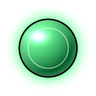
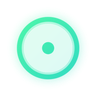
Flat neon driving marker; AI cars slow for people ahead and may hit one in their way while moving
Claude-Session: https://claude.ai/code/session_014q8XGFVYWqgS9iHLpB7QPZ

diff --git a/godot-spike/tools/content/t64_vehicles.py b/godot-spike/tools/content/t64_vehicles.py
@@ -379,8 +379,9 @@ if __name__ == '__main__':
 
 
 def drive_mark(n=96):
-    """The "driving" marker on a car's roof: a glossy emerald orb with a bright core, a pale rim, a soft glow and a drop shadow.  n px square."""
-    from PIL import Image, ImageFilter
+    """The "driving" marker on a car's roof: a flat, glassy neon ring (a mint-to-teal gradient) with a small solid core and a faint glow; no lighting or highlights, so it reads as a
+    marker laid over the car and not as an object on it.  n px square."""
+    from PIL import Image
     SSX = 4
     N = n * SSX
     yy, xx = np.mgrid[0:N, 0:N].astype(np.float32)
@@ -388,45 +389,27 @@ def drive_mark(n=96):
     R = N * 0.30
     d = np.sqrt((xx - cx) ** 2 + (yy - cy) ** 2)
     out = np.zeros((N, N, 4), np.float32)
-    # shadow on the roof: offset down, blurred
-    sh = Image.new('L', (N, N), 0)
-    sd = np.asarray(sh).astype(np.float32)
-    sd[np.sqrt((xx - cx - N * 0.02) ** 2 + (yy - cy - N * 0.04) ** 2) < R * 1.02] = 255
-    sh = Image.fromarray(sd.astype(np.uint8)).filter(ImageFilter.GaussianBlur(N * 0.025))
-    sa = np.asarray(sh).astype(np.float32) / 255.0 * 0.55
-    out[..., 3] = sa
-    # glow
-    glow = np.clip(1.0 - (d - R) / (N * 0.17), 0, 1) ** 2.2 * (d >= R * 0.9)
-    gcol = np.array([0.20, 1.0, 0.45])
-    for k in range(3):
-        out[..., k] = np.where(glow > 0, gcol[k], out[..., k])
-    out[..., 3] = np.maximum(out[..., 3], glow * 0.55)
-    # the orb: a sphere lit from the upper left
-    inside = d <= R
-    t = np.clip(d / R, 0, 1)
-    nz = np.sqrt(np.clip(1 - t * t, 0, 1))
-    lx, ly, lz = -0.45, -0.55, 0.70
-    nxv = (xx - cx) / R
-    nyv = (yy - cy) / R
-    lam = np.clip(nxv * lx + nyv * ly + nz * lz, 0, 1)
-    base_dark = np.array([0.02, 0.38, 0.17])
-    base_lite = np.array([0.45, 1.0, 0.62])
-    orb = base_dark[None, None, :] * (1 - lam[..., None]) + base_lite[None, None, :] * lam[..., None]
-    rim = np.clip((t - 0.80) / 0.20, 0, 1)[..., None]
-    orb = orb * (1 - rim * 0.35) + np.array([0.75, 1.0, 0.85])[None, None, :] * rim * 0.28
-    spec = np.exp(-(((xx - (cx - R * 0.34)) / (R * 0.30)) ** 2 + ((yy - (cy - R * 0.40)) / (R * 0.20)) ** 2))
-    orb = orb + spec[..., None] * 0.65
-    for k in range(3):
-        out[..., k] = np.where(inside, np.clip(orb[..., k], 0, 1), out[..., k])
-    out[..., 3] = np.where(inside, 1.0, out[..., 3])
-    # a thin dark outline and a white inner ring for a clean read on any paint
-    ring = (np.abs(d - R) < N * 0.008)
-    for k in range(3):
-        out[..., k] = np.where(ring, 0.03, out[..., k])
-    out[..., 3] = np.where(ring, 1.0, out[..., 3])
-    ring2 = (np.abs(d - R * 0.70) < N * 0.006)
-    for k in range(3):
-        out[..., k] = np.where(ring2, out[..., k] * 0.5 + 0.5, out[..., k])
+    t = np.clip((xx + yy) / (2.0 * N), 0, 1)[..., None]              # a diagonal gradient across the mark
+    c0 = np.array([0.30, 1.00, 0.62])[None, None, :]                 # mint
+    c1 = np.array([0.12, 0.82, 0.78])[None, None, :]                 # teal
+    col = c0 * (1 - t) + c1 * t
+    def over(mask_a, colour):
+        """composite a layer of alpha mask_a and colour onto out"""
+        a_in = mask_a[..., None]
+        a_out = out[..., 3:4]
+        a_new = a_in + a_out * (1 - a_in)
+        rgb = np.where(a_new > 1e-6, (colour * a_in + out[..., :3] * a_out * (1 - a_in)) / np.maximum(a_new, 1e-6), 0)
+        out[..., :3] = rgb
+        out[..., 3:4] = a_new
+    glow = np.clip(1.0 - (d - R) / (N * 0.16), 0, 1) ** 2.4 * (d >= R * 0.85) * 0.28
+    over(glow.astype(np.float32), col)
+    fill = (d <= R).astype(np.float32) * 0.16                        # a faint glass fill
+    over(fill, col)
+    w = N * 0.022
+    ring = np.clip(1.0 - (np.abs(d - R) - w) / (N * 0.006), 0, 1) * 0.92
+    over(ring.astype(np.float32), col)
+    core = np.clip(1.0 - (d - R * 0.20) / (N * 0.006), 0, 1) * 0.95
+    over(core.astype(np.float32), col)
     im = Image.fromarray((np.clip(out, 0, 1) * 255).astype(np.uint8), 'RGBA')
     return im.resize((n, n), Image.LANCZOS)
 

diff --git a/godot-spike/README.md b/godot-spike/README.md
@@ -103,4 +103,4 @@ Tests: `./run_all.sh` (pockets, world, scale, levels, game, vertical, guns, stea
 **Tweaks 2: name, Randomize, colours, attribute penalty, combat maths, windows, shut doors** (2026-10-22): a NAME line on the creation screen (printable ASCII, 24 characters, optional: the HUD shows "UNNAMED" if empty; `Game.player_name`, saved and carried between zones); a RANDOMIZE button (appearance and attribute points, always 50 in all and valid, the typed name kept); six muted skin colours (blue, red, yellow, green, orange, purple) and five more eye colours for the player and for people (`DollSpec`: 30% coloured skins and 25% coloured eyes, constants `COLOURED_SKIN_PCT`/`COLOURED_EYE_PCT`, easy to remove), standing-doll sheets regenerated; `Skills.attr_bonus` is now -1 per 2 below 10 as well as +1 per 2 above, odd values rounding toward 0 (6 is -2), for every skill, the player and NPCs; every melee, ranged and NPC attack writes its dice, modifiers, thresholds and damage steps into the message log (`Game._math`, switch `SHOW_MATH`); sight radius 30; every door starts shut (`door_closed`, opaque; `open_doors` is what is saved); windows on the ground floor of buildings (`Game._add_windows`, a hash decides, no random numbers: GLASS tiles of 1-3 wide every 2-5 tiles on straight outer walls, never beside a door) that block movement and not sight and break when struck (`break_window`, the frame stays open, noise carries); bug fixed: after dying, BEGIN and BACK did nothing because play-layer controls swallowed the mouse (now `MOUSE_FILTER_IGNORE`).  Tests: `tests/run_batch2.gd` (18), `run_creation` (62), `run_skills` (63), `run_lots` doors.
 **Keys** (2026-10-22): `C` opens a Movement select prompt (1 Crawl, 2 Crouch, 3 Walk, 4 Run; no turn passes; Run keeps every move a run until you pick another, `Game.set_movement`/`run_mode`), `Z` is next ammo kind, `X` is interact (the crouch and crawl keys are gone); an older settings file moves to the new keys (`Settings.KEYS_VERSION`).  Tests: `tests/run_batch2.gd` (24).
 
-**Cars: 3x5, eight headings, tank controls, run-over damage** (2026-10-22): a car is 3 wide by 5 long (`vehicles.gd` KINDS, new painted sprite 192x320, parking bays stay 4x6, a car has room to spare); cars and trucks head in eight directions (`dir` 0..7 clockwise from north, `DIR8`; other vehicles keep four; saves from before are doubled on load by the `d8` flag) and a diagonal body is the template turned and rasterised about the driver's seat (`offsets`, `true_center`); controls are tank controls: Up speeds up, Down brakes then reverses, Left and Right turn 45 degrees to the vehicle's own left or right, diagonals do both, standing still a turn pivots on the spot, at speed the vehicle keeps moving while it turns (a wider arc the faster it goes) and from 4 tiles a turn each turn also costs a point of speed (`Vehicles.drive`); the character faces the vehicle's heading (`Game.facing`) as you get in and with every turn; the driver is not drawn, a green orb sits on the roof of the vehicle you drive (`veh_drive_mark.png`, upright whatever the heading); a person struck by a vehicle takes 1 damage per km/h (a tile a turn is 15 km/h, `KPH_PER_TILE`), 25% to each leg, 25% chest, 10% each arm, 5% head (`Vehicles.hit_split`, `run_down`).  AI traffic still drives only the straight headings and still stops for people.  Tests: `tests/run_cars.gd` (23), `run_vehicles` (57).
+**Cars: 3x5, eight headings, tank controls, run-over damage** (2026-10-22): a car is 3 wide by 5 long (`vehicles.gd` KINDS, new painted sprite 192x320, parking bays stay 4x6, a car has room to spare); cars and trucks head in eight directions (`dir` 0..7 clockwise from north, `DIR8`; other vehicles keep four; saves from before are doubled on load by the `d8` flag) and a diagonal body is the template turned and rasterised about the driver's seat (`offsets`, `true_center`); controls are tank controls: Up speeds up, Down brakes then reverses, Left and Right turn 45 degrees to the vehicle's own left or right, diagonals do both, standing still a turn pivots on the spot, at speed the vehicle keeps moving while it turns (a wider arc the faster it goes) and from 4 tiles a turn each turn also costs a point of speed (`Vehicles.drive`); the character faces the vehicle's heading (`Game.facing`) as you get in and with every turn; the driver is not drawn, a green orb sits on the roof of the vehicle you drive (`veh_drive_mark.png`, upright whatever the heading); a person struck by a vehicle takes 1 damage per km/h (a tile a turn is 15 km/h, `KPH_PER_TILE`), 25% to each leg, 25% chest, 10% each arm, 5% head (`Vehicles.hit_split`, `run_down`).  AI traffic drives only the straight headings; it slows to one tile a turn (15 km/h) when a person or you are in the lane within four tiles, and a car that is moving when somebody is in its way gets a chance to hit them (40% if it came in at full speed, 12% if already slowed, at the speed it came in at), then stops; a stopped car never hits anyone and no car ever speeds up at anybody.  The driving marker is a flat neon ring with a small core (`drive_mark` in `t64_vehicles.py`).  Tests: `tests/run_cars.gd` (26), `run_vehicles` (57).

diff --git a/godot-spike/PLAN.md b/godot-spike/PLAN.md
@@ -125,4 +125,4 @@ Why: the city was flat.  Verticality is also the cheapest big win for the NPC si
 
 **Keys** (2026-10-22): C movement prompt (crawl, crouch, walk, run), Z next ammo, X interact; old settings migrate (`KEYS_VERSION` 2).
 
-**Cars: 3x5, eight headings, tank controls, run-over damage** (2026-10-22): a car is 3 wide by 5 long (`vehicles.gd` KINDS, new painted sprite 192x320, parking bays stay 4x6, a car has room to spare); cars and trucks head in eight directions (`dir` 0..7 clockwise from north, `DIR8`; other vehicles keep four; saves from before are doubled on load by the `d8` flag) and a diagonal body is the template turned and rasterised about the driver's seat (`offsets`, `true_center`); controls are tank controls: Up speeds up, Down brakes then reverses, Left and Right turn 45 degrees to the vehicle's own left or right, diagonals do both, standing still a turn pivots on the spot, at speed the vehicle keeps moving while it turns (a wider arc the faster it goes) and from 4 tiles a turn each turn also costs a point of speed (`Vehicles.drive`); the character faces the vehicle's heading (`Game.facing`) as you get in and with every turn; the driver is not drawn, a green orb sits on the roof of the vehicle you drive (`veh_drive_mark.png`, upright whatever the heading); a person struck by a vehicle takes 1 damage per km/h (a tile a turn is 15 km/h, `KPH_PER_TILE`), 25% to each leg, 25% chest, 10% each arm, 5% head (`Vehicles.hit_split`, `run_down`).  AI traffic still drives only the straight headings and still stops for people.  Tests: `tests/run_cars.gd` (23), `run_vehicles` (57).
+**Cars: 3x5, eight headings, tank controls, run-over damage** (2026-10-22): a car is 3 wide by 5 long (`vehicles.gd` KINDS, new painted sprite 192x320, parking bays stay 4x6, a car has room to spare); cars and trucks head in eight directions (`dir` 0..7 clockwise from north, `DIR8`; other vehicles keep four; saves from before are doubled on load by the `d8` flag) and a diagonal body is the template turned and rasterised about the driver's seat (`offsets`, `true_center`); controls are tank controls: Up speeds up, Down brakes then reverses, Left and Right turn 45 degrees to the vehicle's own left or right, diagonals do both, standing still a turn pivots on the spot, at speed the vehicle keeps moving while it turns (a wider arc the faster it goes) and from 4 tiles a turn each turn also costs a point of speed (`Vehicles.drive`); the character faces the vehicle's heading (`Game.facing`) as you get in and with every turn; the driver is not drawn, a green orb sits on the roof of the vehicle you drive (`veh_drive_mark.png`, upright whatever the heading); a person struck by a vehicle takes 1 damage per km/h (a tile a turn is 15 km/h, `KPH_PER_TILE`), 25% to each leg, 25% chest, 10% each arm, 5% head (`Vehicles.hit_split`, `run_down`).  AI traffic drives only the straight headings; it slows to one tile a turn (15 km/h) when a person or you are in the lane within four tiles, and a car that is moving when somebody is in its way gets a chance to hit them (40% if it came in at full speed, 12% if already slowed, at the speed it came in at), then stops; a stopped car never hits anyone and no car ever speeds up at anybody.  The driving marker is a flat neon ring with a small core (`drive_mark` in `t64_vehicles.py`).  Tests: `tests/run_cars.gd` (26), `run_vehicles` (57).
